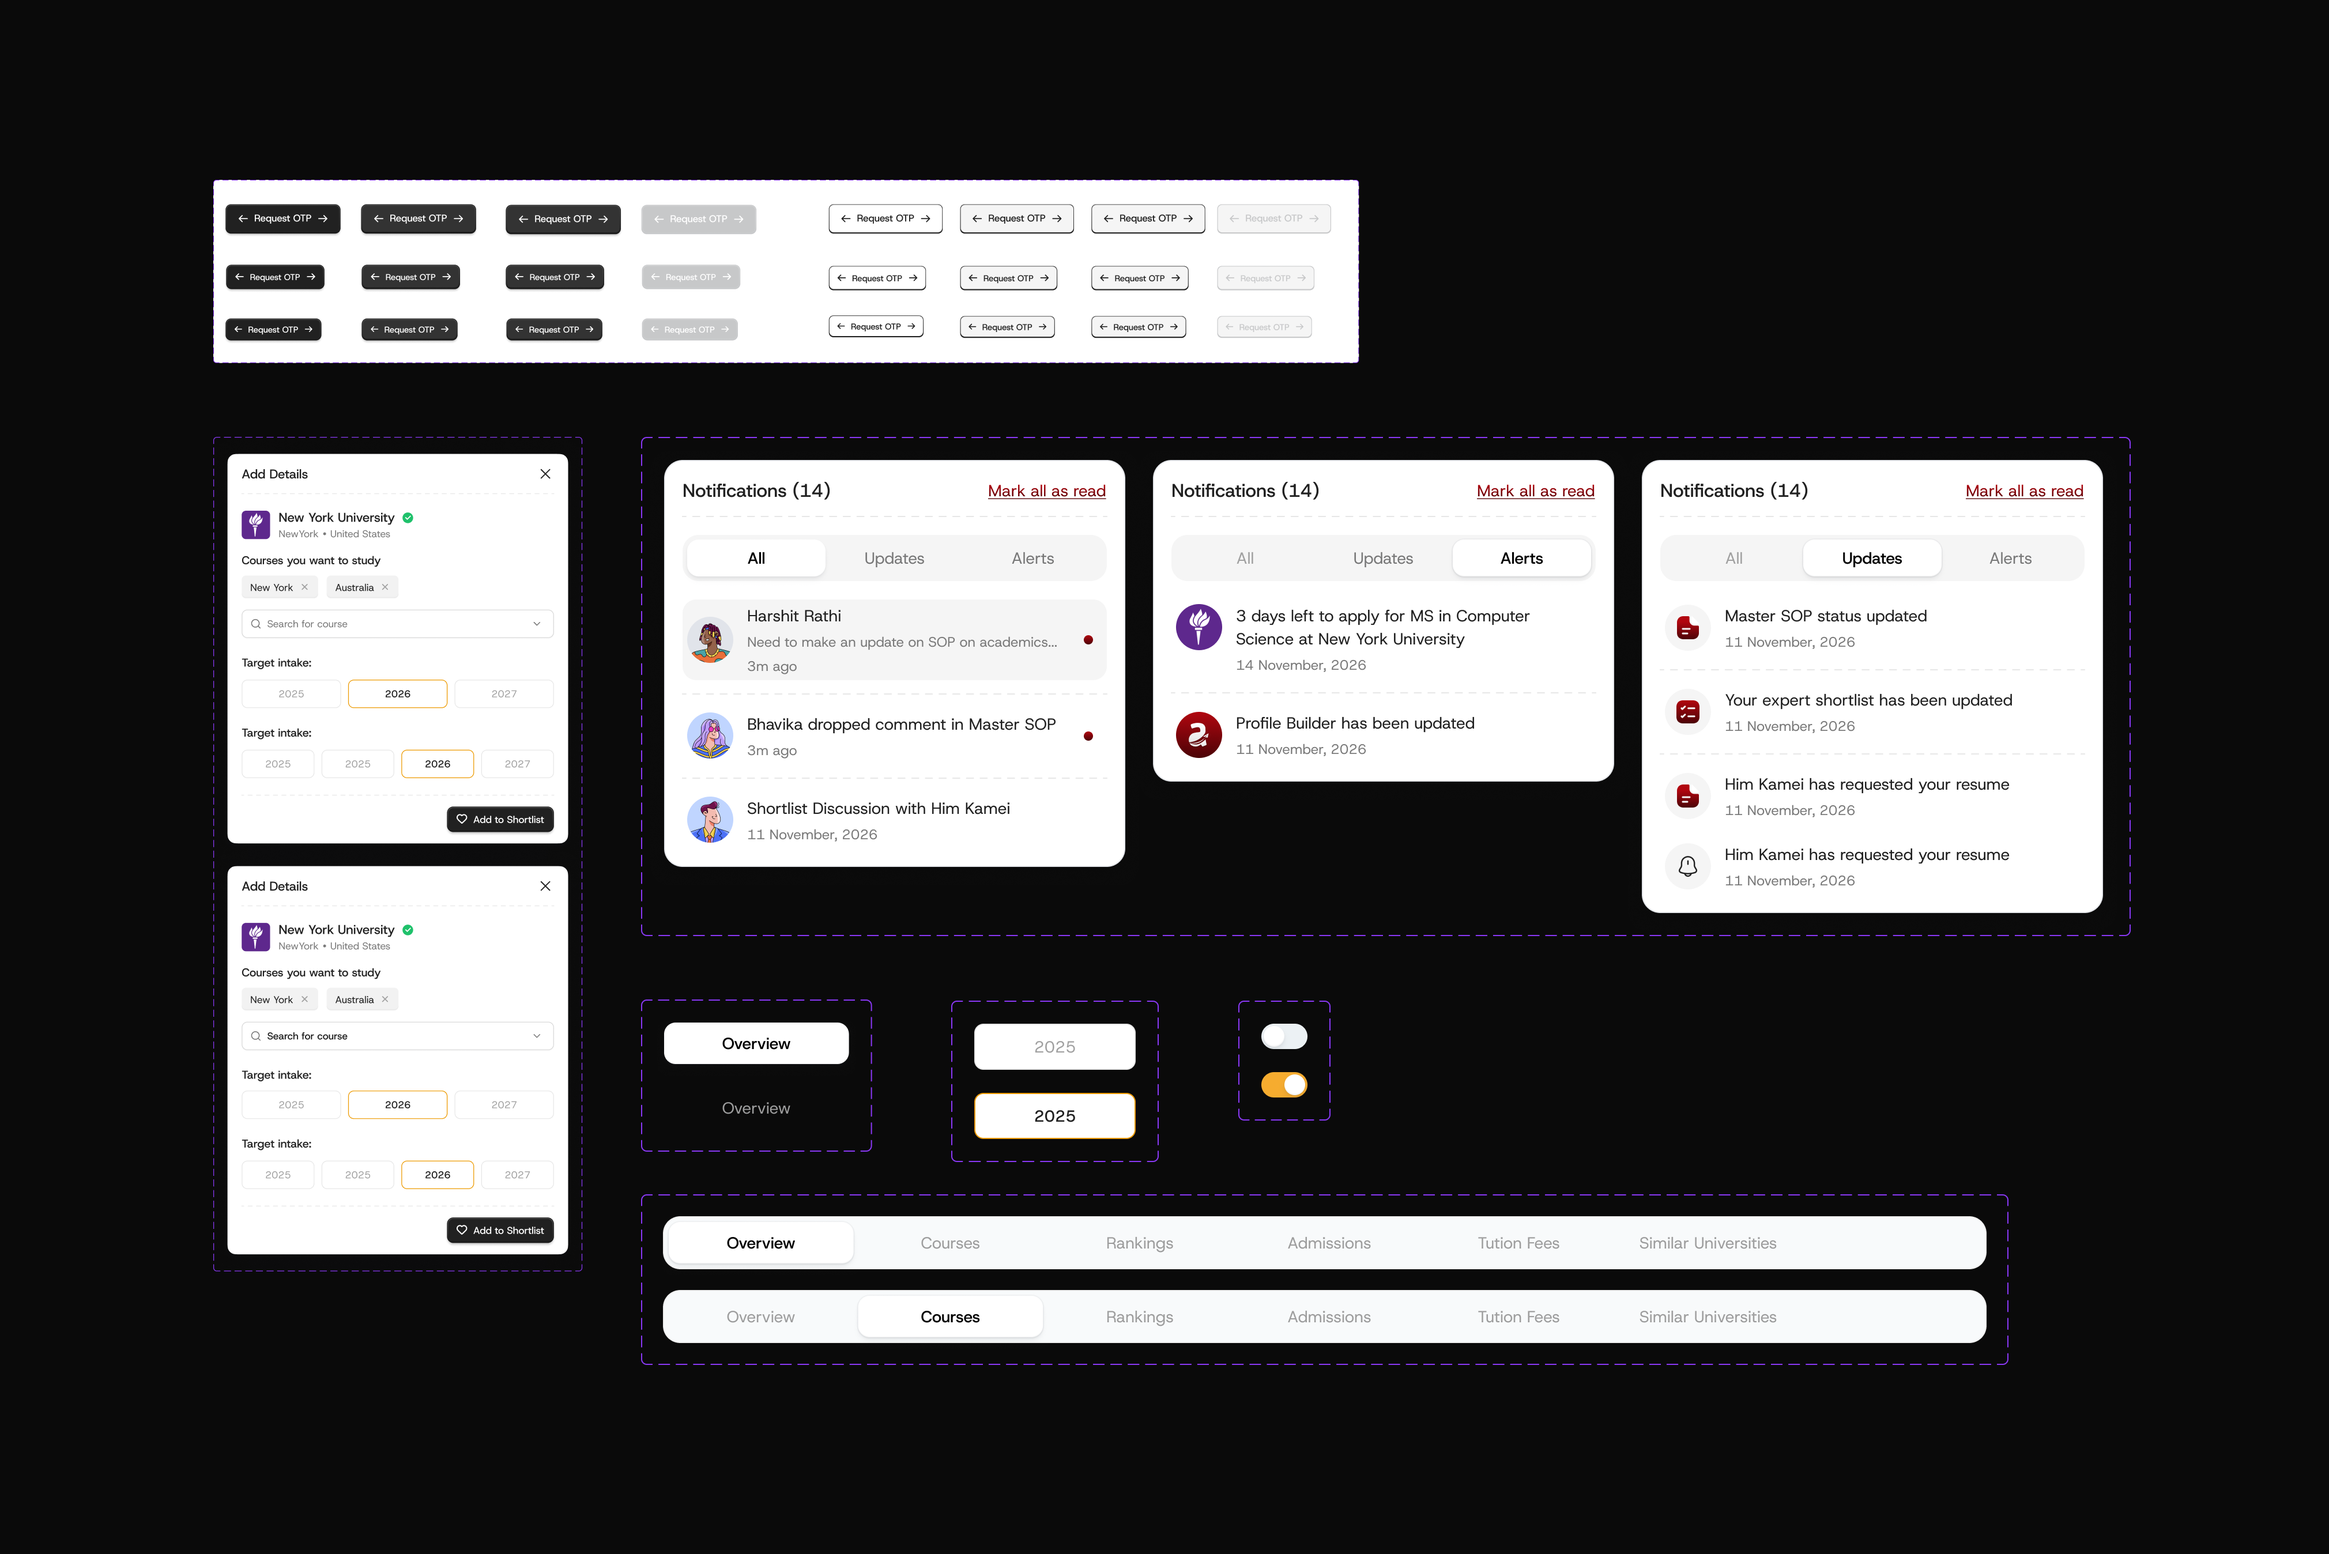
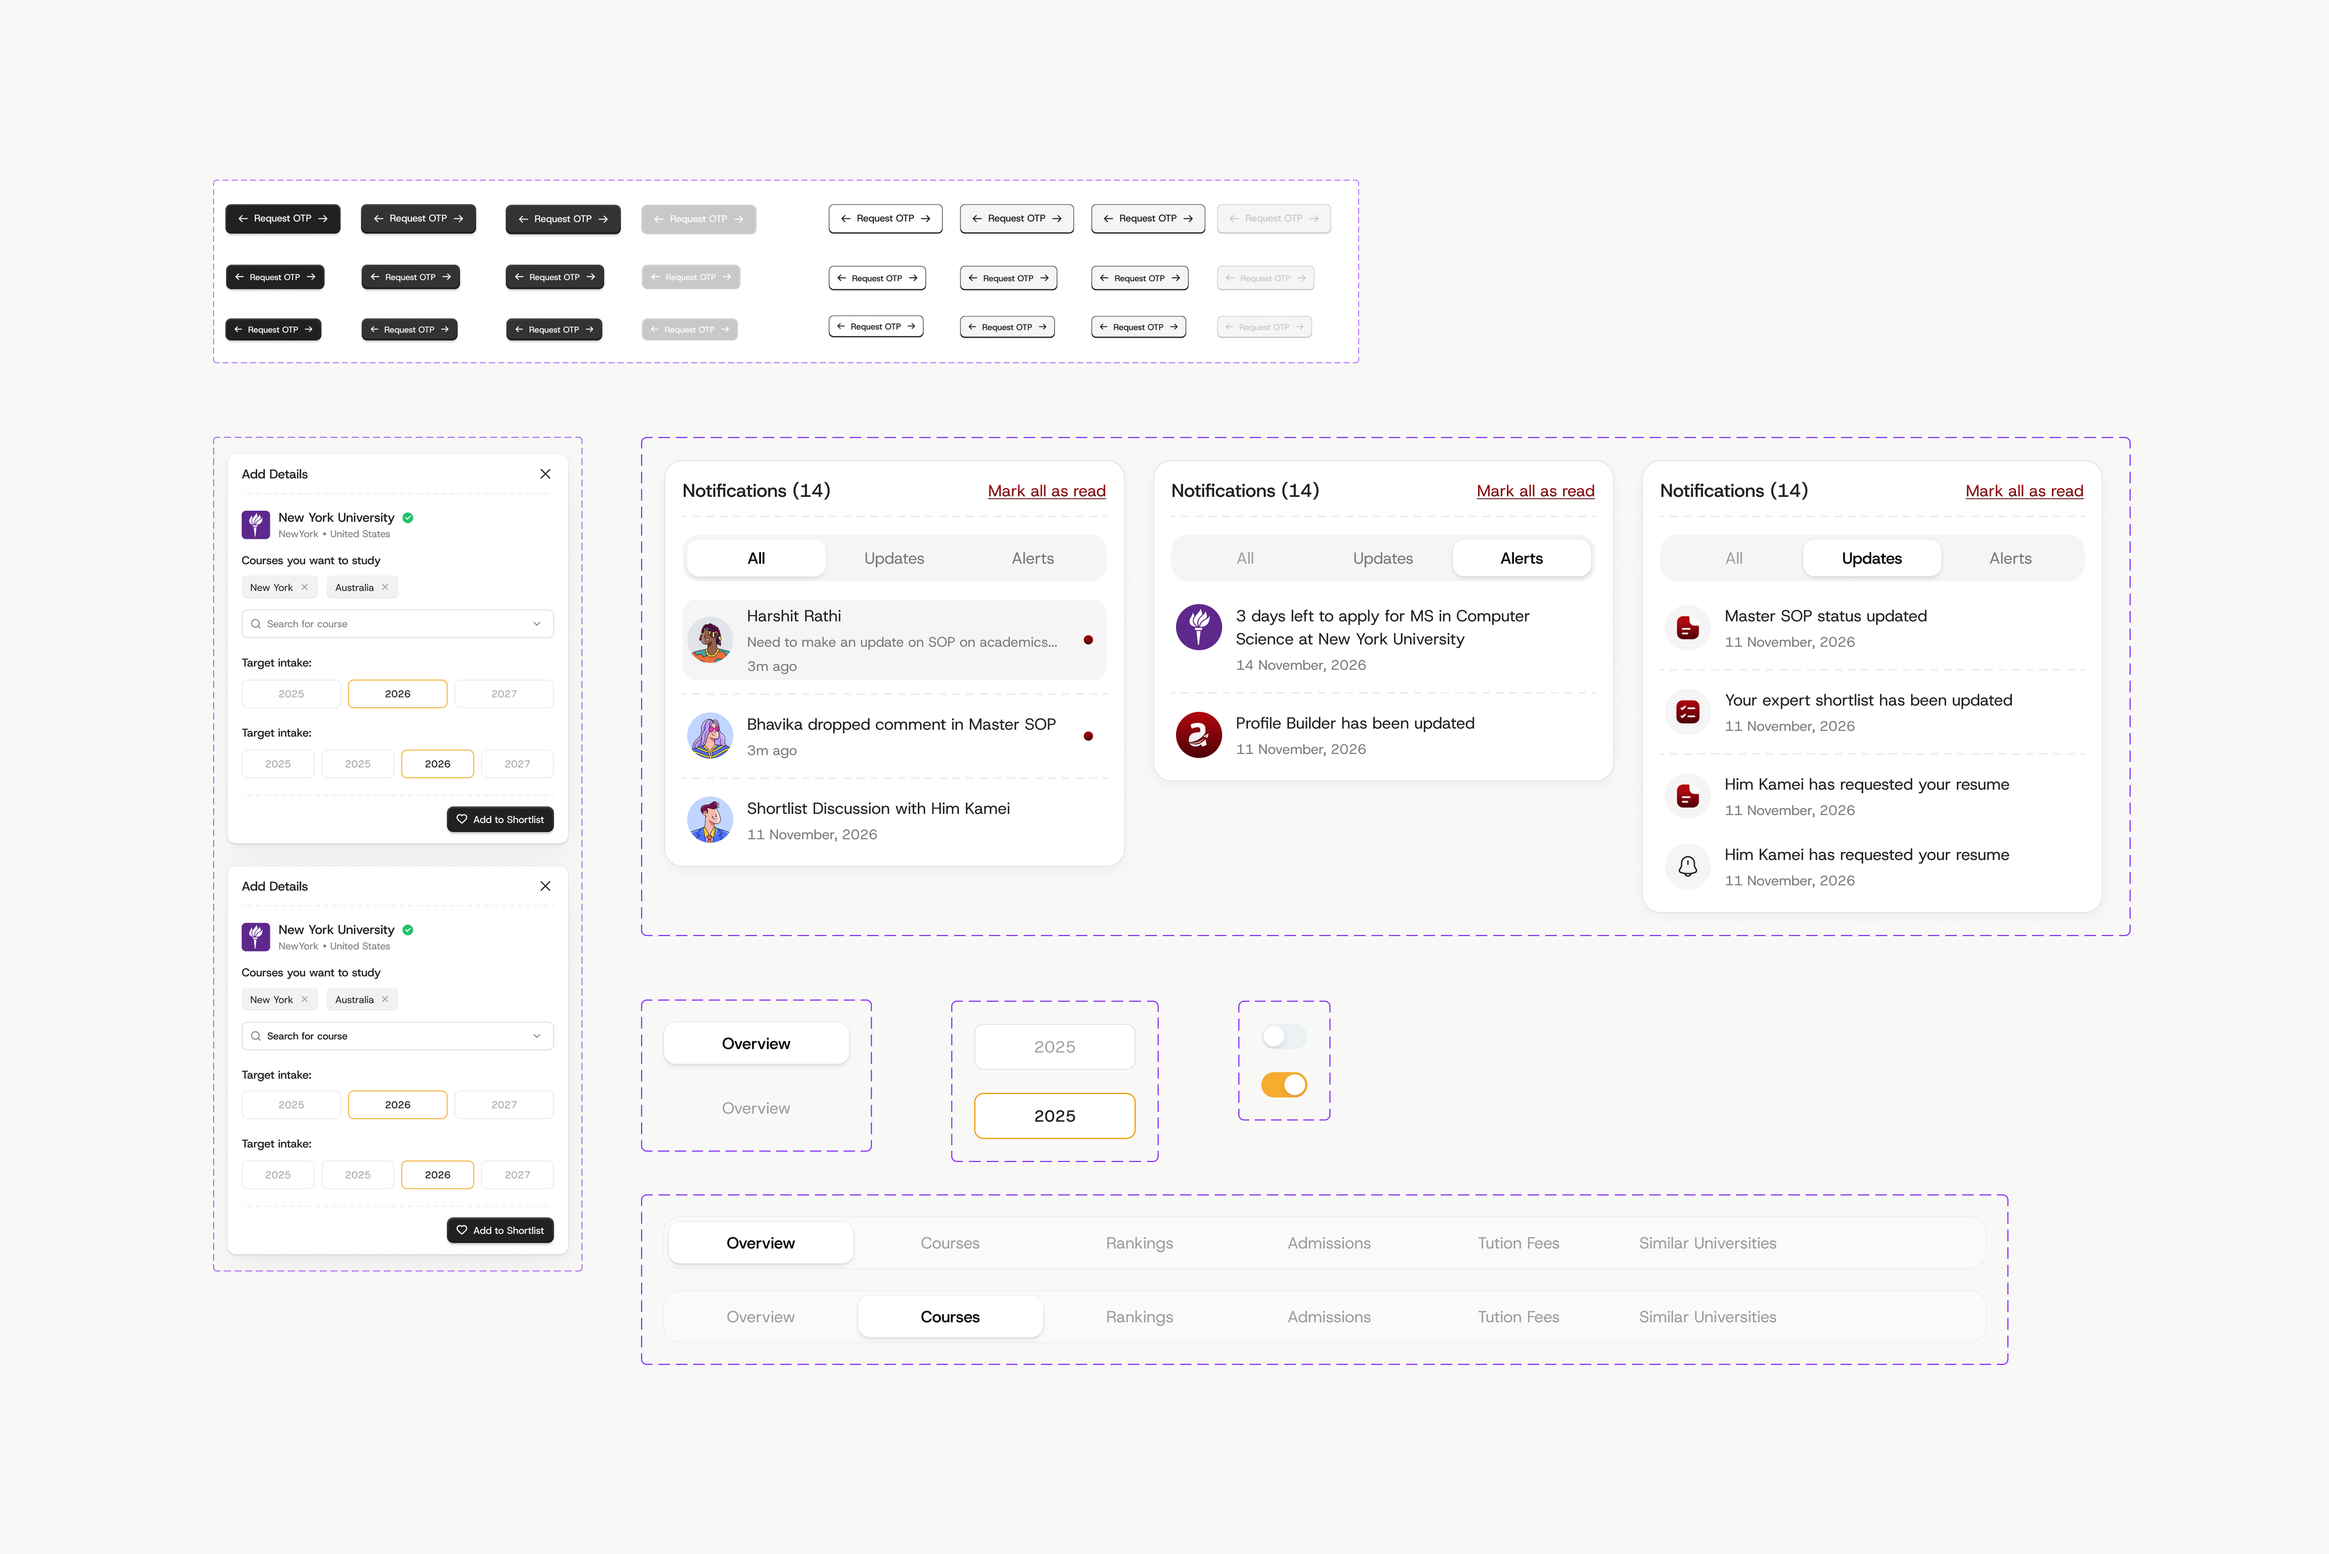
Ship every mockup in both themes
The sheets carry their background in the pixels, so the theme cannot be
handled in CSS — it takes a different file. Each mockup now has a grey
base for light and a `-dark` twin for black, both rendered with the wrong
one hidden. That keeps caseMedia a server component, so there is no flash
of the wrong background on first paint.

The repo turned out to already hold the dark versions under the plain
names — every asset measured rgb(10,10,10) — which is why light theme was
showing black sheets. The greys are now the base and the darks moved to
-dark.

Matching was done by content fingerprint rather than by eye, since the
exports arrive as "Frame 21472422xx.png". The dark set matched the
existing assets at distance 0.0; the light set was assigned by export
order, corroborated 10/12 against the dark set.

darkVariant() is an explicit list, not a guess: the iter-* frames are
transparent and ship in one version, and pointing at a -dark file that
does not exist would render a broken image.

diff --git a/app/components/WorkSection.tsx b/app/components/WorkSection.tsx
@@ -5,6 +5,7 @@ import Link from "next/link";
 import { useState } from "react";
 import { colors, t, type } from "../theme";
 import { playHover } from "../lib/sound";
+import { darkVariant } from "../lib/mockupVariants";
 import ConceptLightbox from "./ConceptLightbox";
 import ExperienceTimeline from "./ExperienceTimeline";
 import SectionLabel from "./SectionLabel";
@@ -173,12 +174,26 @@ export default function WorkSection() {
                     </div>
                   </div>
                 ) : p.image ? (
-                  // eslint-disable-next-line @next/next/no-img-element
-                  <img
-                    src={p.image}
-                    alt={`${p.company} preview`}
-                    className="h-full w-full object-cover transition-[scale,filter] duration-500 ease-out group-hover:scale-[0.97] group-hover:grayscale"
-                  />
+                  /* Two files, not one CSS rule: the sheet's background is
+                     baked into the pixels, so the theme is a different asset.
+                     Both render and the wrong one is hidden. */
+                  <>
+                    {/* eslint-disable-next-line @next/next/no-img-element */}
+                    <img
+                      src={p.image}
+                      alt={`${p.company} preview`}
+                      className="h-full w-full object-cover transition-[scale,filter] duration-500 ease-out group-hover:scale-[0.97] group-hover:grayscale dark:hidden"
+                    />
+                    {darkVariant(p.image) && (
+                      // eslint-disable-next-line @next/next/no-img-element
+                      <img
+                        src={darkVariant(p.image) as string}
+                        alt=""
+                        aria-hidden
+                        className="hidden h-full w-full object-cover transition-[scale,filter] duration-500 ease-out group-hover:scale-[0.97] group-hover:grayscale dark:block"
+                      />
+                    )}
+                  </>
                 ) : (
                   <div className="h-full w-full p-8 transition-[scale,filter] duration-500 ease-out group-hover:scale-[0.97] group-hover:grayscale">
                     {p.preview}

diff --git a/app/components/caseMedia.tsx b/app/components/caseMedia.tsx
@@ -3,6 +3,7 @@
 import { colors } from "../theme";
 import type { MediaKind } from "../lib/projects";
 import { Zoomable } from "./MediaViewer";
+import { darkVariant } from "../lib/mockupVariants";
 
 /* ----------------------------------------------------------------------------
  * Dummy visual placeholders for case-study sections. No real assets — abstract
@@ -150,18 +151,29 @@ function ImageFrame({
   zoomable?: boolean;
   large?: boolean;
 }) {
-  const img = (
+  const base =
+    large
+      ? "mx-auto max-h-[62vh] w-auto rounded-2xl ring-1 ring-black/5 dark:ring-[color:var(--c-line)]"
+      : "w-full rounded-2xl ring-1 ring-black/5 dark:ring-[color:var(--c-line)]";
+
+  /* These sheets carry their background in the pixels, so the theme can't be
+     handled in CSS — it takes a different file. Both are rendered and the
+     wrong one is hidden, which keeps this a server component and means no
+     flash of the wrong background on first paint. */
+  const dark = darkVariant(src);
+
+  const img = dark ? (
+    <>
+      {/* eslint-disable-next-line @next/next/no-img-element */}
+      <img src={src} alt={alt} className={`${base} dark:hidden`} loading="lazy" />
+      {/* aria-hidden: the light copy above already names this image, and only
+          one of the two is ever visible. */}
+      {/* eslint-disable-next-line @next/next/no-img-element */}
+      <img src={dark} alt="" aria-hidden className={`${base} hidden dark:block`} loading="lazy" />
+    </>
+  ) : (
     // eslint-disable-next-line @next/next/no-img-element
-    <img
-      src={src}
-      alt={alt}
-      className={
-        large
-          ? "mx-auto max-h-[62vh] w-auto rounded-2xl ring-1 ring-black/5 dark:ring-[color:var(--c-line)]"
-          : "w-full rounded-2xl ring-1 ring-black/5 dark:ring-[color:var(--c-line)]"
-      }
-      loading="lazy"
-    />
+    <img src={src} alt={alt} className={base} loading="lazy" />
   );
   if (!zoomable) return img;
   return (

diff --git a/app/lib/mockupVariants.ts b/app/lib/mockupVariants.ts
@@ -1,0 +1,35 @@
+/**
+ * Mockups that ship in two versions: the grey-backed sheet for the light theme
+ * and a black-backed one for dark. The pair is the same artwork — only the
+ * canvas behind it differs — and the dark file is always the light path with
+ * `-dark` before the extension.
+ *
+ * Kept as an explicit list rather than guessed at render time. The background
+ * is baked into these PNGs, so a path that has no dark twin (the iter-* frames,
+ * which are transparent and read correctly on either theme) must be left alone
+ * — pointing at a file that doesn't exist would just render a broken image.
+ */
+const WITH_DARK_VARIANT = new Set([
+  "/work/ambitio/application-detail.png",
+  "/work/ambitio/components.png",
+  "/work/ambitio/course-detail.png",
+  "/work/ambitio/course-finder.png",
+  "/work/ambitio/document-manager.png",
+  "/work/ambitio/manage-applications.png",
+  "/work/ambitio/scholarship-finder.png",
+  "/work/fibr/aya.png",
+  "/work/fibr/cro-agency.png",
+  "/work/fibr/faq.png",
+  "/work/fibr/liv.png",
+  "/work/fibr/max.png",
+  "/work/noon/competitive.png",
+  "/work/noon/preview.png",
+  "/work/noon/rating-states.png",
+  "/work/noon/system.png",
+]);
+
+/** The dark twin of a mockup, or null when it only ships one version. */
+export function darkVariant(src: string): string | null {
+  if (!WITH_DARK_VARIANT.has(src)) return null;
+  return src.replace(/\.png$/, "-dark.png");
+}
